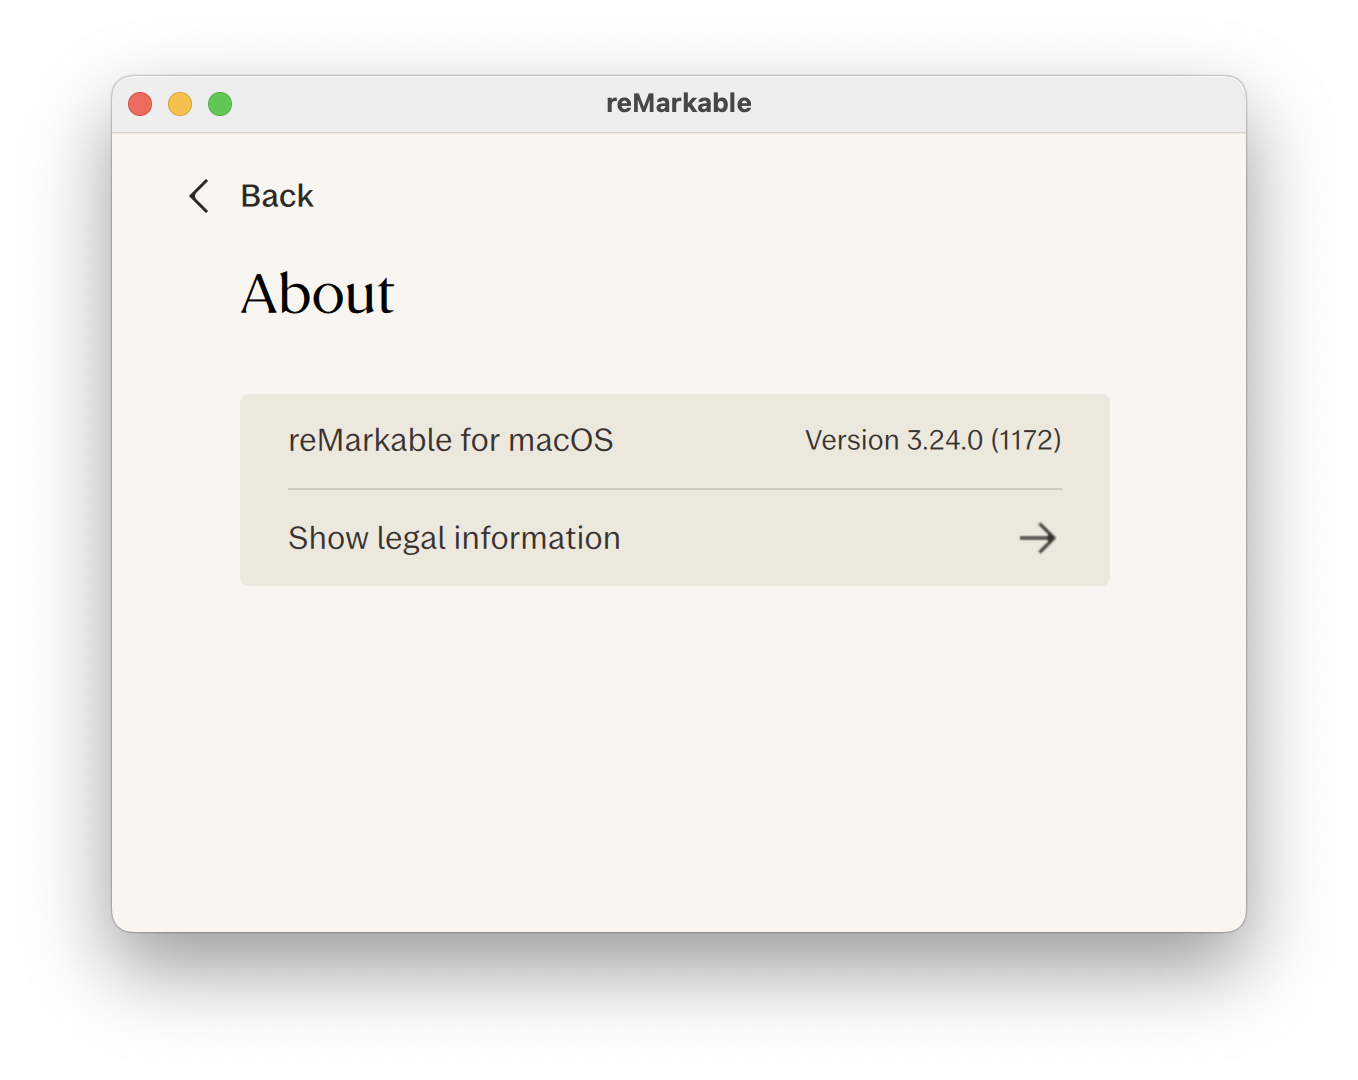
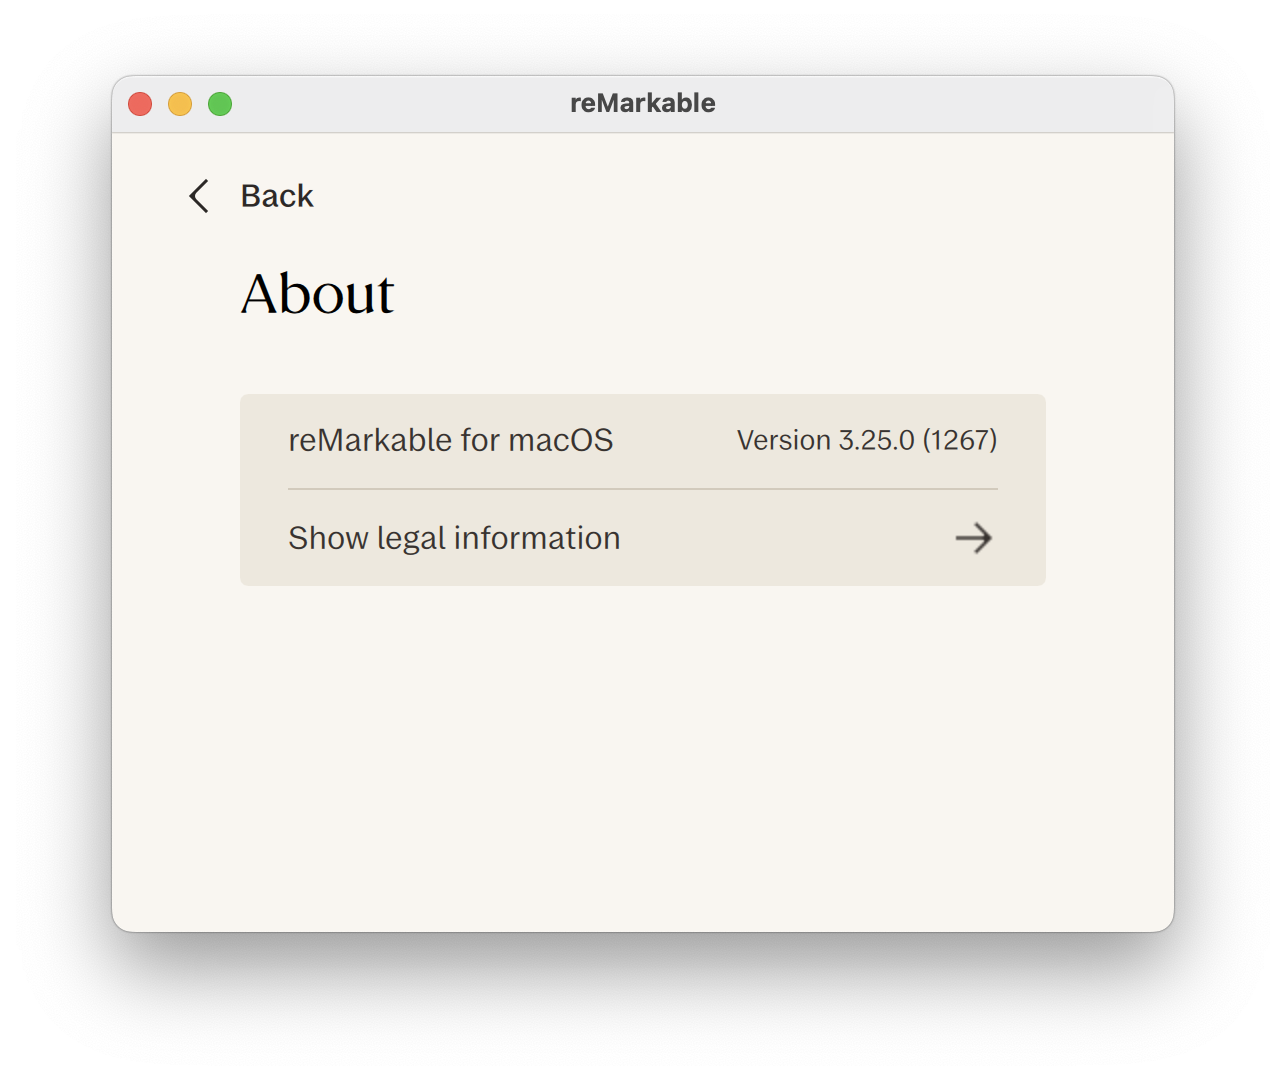
Bump reMarkable Desktop compatibility to v3.25.0

diff --git a/README.md b/README.md
@@ -14,7 +14,7 @@ RMHook hooks into the reMarkable Desktop app's network layer to redirect API cal
 ## Compatibility
 
 **Tested and working on:**
-- reMarkable Desktop v3.24.0 (released 2025-12-03)
+- reMarkable Desktop v3.25.0 (released 2026-02-02)
 
 <p align="center">
   <img src="docs/latest.png" width="40%" />
